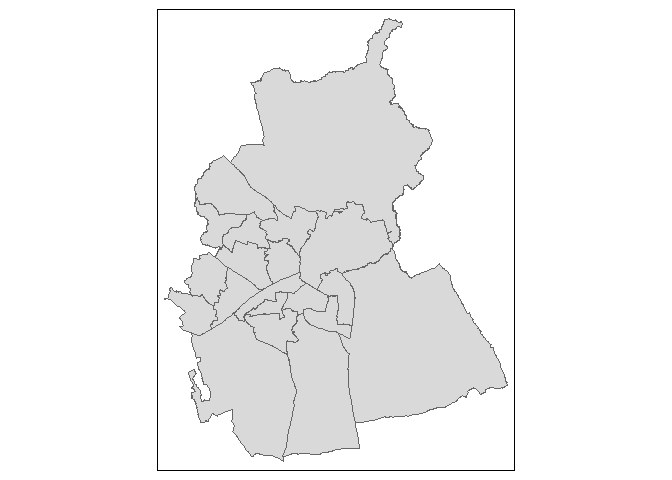
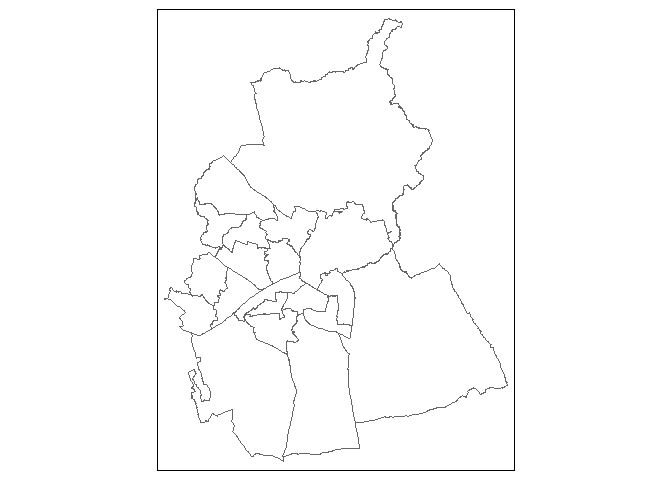
Fix URLs again and add LTLA:UTLA lookup capability

Changed region(s): [[0.25, 0.0312, 0.75, 0.9688]]

diff --git a/README.md b/README.md
@@ -25,7 +25,6 @@ MSOA, Ward, LAD/LTLA, UTLA/CTY, CAUTH, RGN *\[subject to change\]*
 
 ``` r
 library(jogger)
-library(tmap)
 library(dplyr)
 #> 
 #> Attaching package: 'dplyr'
@@ -35,19 +34,21 @@ library(dplyr)
 #> The following objects are masked from 'package:base':
 #> 
 #>     intersect, setdiff, setequal, union
+library(tmap)
 
 tmap::tmap_mode("plot")
 #> tmap mode set to plotting
 
 geo_get("wd", "Swindon", "lad") %>% 
-  tmap::qtm()
-#> Reading layer `ESRIJSON' from data source `https://services1.arcgis.com/ESMARspQHYMw9BZ9/arcgis/rest/services/Wards_December_2020_UK_BFC/FeatureServer/0/query?where=%20(WD20CD%20%3D%20'E05008962'%20OR%20WD20CD%20%3D%20'E05008963'%20OR%20WD20CD%20%3D%20'E05010757'%20OR%20WD20CD%20%3D%20'E05008965'%20OR%20WD20CD%20%3D%20'E05008966'%20OR%20WD20CD%20%3D%20'E05010755'%20OR%20WD20CD%20%3D%20'E05008967'%20OR%20WD20CD%20%3D%20'E05008954'%20OR%20WD20CD%20%3D%20'E05008968'%20OR%20WD20CD%20%3D%20'E05008955'%20OR%20WD20CD%20%3D%20'E05008969'%20OR%20WD20CD%20%3D%20'E05008970'%20OR%20WD20CD%20%3D%20'E05008971'%20OR%20WD20CD%20%3D%20'E05008972'%20OR%20WD20CD%20%3D%20'E05008956'%20OR%20WD20CD%20%3D%20'E05008957'%20OR%20WD20CD%20%3D%20'E05008958'%20OR%20WD20CD%20%3D%20'E05010756'%20OR%20WD20CD%20%3D%20'E05008960'%20OR%20WD20CD%20%3D%20'E05008961')%20&outFields=WD20CD,WD20NM&outSR=4326&f=json' using driver `ESRIJSON'
-#> Simple feature collection with 20 features and 2 fields
+  tmap::tm_shape() +
+  tmap::tm_borders()
+#> Reading layer `ESRIJSON' from data source `https://services1.arcgis.com/ESMARspQHYMw9BZ9/arcgis/rest/services/Wards_December_2020_UK_BFC/FeatureServer/0/query?where=%20(WD20CD%20%3D%20'E05008962'%20OR%20WD20CD%20%3D%20'E05008963'%20OR%20WD20CD%20%3D%20'E05010757'%20OR%20WD20CD%20%3D%20'E05008965'%20OR%20WD20CD%20%3D%20'E05008966'%20OR%20WD20CD%20%3D%20'E05010755'%20OR%20WD20CD%20%3D%20'E05008967'%20OR%20WD20CD%20%3D%20'E05008954'%20OR%20WD20CD%20%3D%20'E05008968'%20OR%20WD20CD%20%3D%20'E05008955'%20OR%20WD20CD%20%3D%20'E05008969'%20OR%20WD20CD%20%3D%20'E05008970'%20OR%20WD20CD%20%3D%20'E05008971'%20OR%20WD20CD%20%3D%20'E05008972'%20OR%20WD20CD%20%3D%20'E05008956'%20OR%20WD20CD%20%3D%20'E05008957'%20OR%20WD20CD%20%3D%20'E05008958'%20OR%20WD20CD%20%3D%20'E05010756'%20OR%20WD20CD%20%3D%20'E05008960'%20OR%20WD20CD%20%3D%20'E05008961')%20&outFields=WD20CD&outSR=4326&f=json' using driver `ESRIJSON'
+#> Simple feature collection with 20 features and 1 field
 #> geometry type:  POLYGON
 #> dimension:      XY
 #> bbox:           xmin: -1.865128 ymin: 51.48245 xmax: -1.602812 ymax: 51.69271
 #> geographic CRS: WGS 84
-#> Joining, by = c("wd20cd", "wd20nm")
+#> Linking to GEOS 3.8.0, GDAL 3.0.4, PROJ 6.3.1
 ```
 
 <img src="man/figures/README-example-1-1.png" width="100%" />
@@ -70,59 +71,47 @@ geo_get("msoa", "Swansea", "lad", return_boundaries = FALSE) %>%
 #> Joining, by = c("lsoa11cd", "lsoa11nm")
 #> Joining, by = c("lsoa11cd", "lsoa11nm")
 #>     msoa11cd    msoa11nm    msoa11nmw                 msoa11hclnm
-#> 1  W02000185 Swansea 018 Abertawe 018 Llanmorlais & Three Crosses
-#> 2  W02000195 Swansea 028 Abertawe 028         Mayals & Bishopston
-#> 3  W02000178 Swansea 011 Abertawe 011                    Penderry
-#> 4  W02000198 Swansea 031 Abertawe 031            Mumbles & Newton
-#> 5  W02000198 Swansea 031 Abertawe 031            Mumbles & Newton
-#> 6  W02000187 Swansea 020 Abertawe 020      Dunvant & Upper Killay
-#> 7  W02000183 Swansea 016 Abertawe 016                     Landore
-#> 8  W02000179 Swansea 012 Abertawe 012                    Gowerton
-#> 9  W02000180 Swansea 013 Abertawe 013                   Ravenhill
-#> 10 W02000171 Swansea 004 Abertawe 004      Llangyfelach & Tircoed
-#>                   msoa11hclnmw    wd20cd       wd20nm   lad20cd lad20nm
-#> 1        Llanmorlais a'r Crwys W05000974    Penclawdd W06000011 Swansea
-#> 2  Mayals a Llandeilo Ferwallt W05000959   Bishopston W06000011 Swansea
-#> 3                      Penderi W05000975     Penderry W06000011 Swansea
-#> 4             Mwmbwls a Newton W05000538  Oystermouth W06000011 Swansea
-#> 5             Mwmbwls a Newton W05000537       Newton W06000011 Swansea
-#> 6        Dynfant a Chilâ Uchaf W05000965      Dunvant W06000011 Swansea
-#> 7                      Glandwr W05000969      Landore W06000011 Swansea
-#> 8                      Tregwyr W05000525     Gowerton W06000011 Swansea
-#> 9                    Ravenhill W05000963      Cockett W06000011 Swansea
-#> 10     Llangyfelach a Thircoed W05000970 Llangyfelach W06000011 Swansea
-#>    lad20nmw
-#> 1  Abertawe
-#> 2  Abertawe
-#> 3  Abertawe
-#> 4  Abertawe
-#> 5  Abertawe
-#> 6  Abertawe
-#> 7  Abertawe
-#> 8  Abertawe
-#> 9  Abertawe
-#> 10 Abertawe
+#> 1  W02000194 Swansea 027 Abertawe 027                      Sketty
+#> 2  W02000179 Swansea 012 Abertawe 012                    Gowerton
+#> 3  W02000171 Swansea 004 Abertawe 004      Llangyfelach & Tircoed
+#> 4  W02000186 Swansea 019 Abertawe 019                    Townhill
+#> 5  W02000174 Swansea 007 Abertawe 007                     Loughor
+#> 6  W02000184 Swansea 017 Abertawe 017                     Cockett
+#> 7  W02000176 Swansea 009 Abertawe 009                 Mynydd-bach
+#> 8  W02000189 Swansea 022 Abertawe 022                     Ty-coch
+#> 9  W02000185 Swansea 018 Abertawe 018 Llanmorlais & Three Crosses
+#> 10 W02000178 Swansea 011 Abertawe 011                    Penderry
+#>               msoa11hclnmw   lad20cd lad20nm lad20nmw
+#> 1                    Sgeti W06000011 Swansea Abertawe
+#> 2                  Tregwyr W06000011 Swansea Abertawe
+#> 3  Llangyfelach a Thircoed W06000011 Swansea Abertawe
+#> 4                 Townhill W06000011 Swansea Abertawe
+#> 5               Casllwchwr W06000011 Swansea Abertawe
+#> 6                  Y Cocyd W06000011 Swansea Abertawe
+#> 7              Mynydd-bach W06000011 Swansea Abertawe
+#> 8                  Ty-coch W06000011 Swansea Abertawe
+#> 9    Llanmorlais a'r Crwys W06000011 Swansea Abertawe
+#> 10                 Penderi W06000011 Swansea Abertawe
 ```
 
 ``` r
 geo_get("lsoa", "Zetland", "ward", shape_fields = TRUE) %>%
   dplyr::arrange(desc(shape_area))
-#> Reading layer `ESRIJSON' from data source `https://services1.arcgis.com/ESMARspQHYMw9BZ9/arcgis/rest/services/Lower_Layer_Super_Output_Areas_December_2011_Boundaries_EW_BFC_V2/FeatureServer/0/query?where=%20(LSOA11CD%20%3D%20'E01012184'%20OR%20LSOA11CD%20%3D%20'E01012185'%20OR%20LSOA11CD%20%3D%20'E01012186')%20&outFields=LSOA11CD,LSOA11NM,SHAPE__AREA,SHAPE__LENGTH&outSR=4326&f=json' using driver `ESRIJSON'
-#> Simple feature collection with 3 features and 4 fields
+#> Reading layer `ESRIJSON' from data source `https://services1.arcgis.com/ESMARspQHYMw9BZ9/arcgis/rest/services/Lower_Layer_Super_Output_Areas_December_2011_Boundaries_EW_BFC_V2/FeatureServer/0/query?where=%20(LSOA11CD%20%3D%20'E01012184'%20OR%20LSOA11CD%20%3D%20'E01012185'%20OR%20LSOA11CD%20%3D%20'E01012186')%20&outFields=LSOA11CD,SHAPE__AREA,SHAPE__LENGTH&outSR=4326&f=json' using driver `ESRIJSON'
+#> Simple feature collection with 3 features and 3 fields
 #> geometry type:  POLYGON
 #> dimension:      XY
 #> bbox:           xmin: -1.059949 ymin: 54.6023 xmax: -1.036318 ymax: 54.61806
 #> geographic CRS: WGS 84
-#> Joining, by = c("lsoa11cd", "lsoa11nm")
 #> Simple feature collection with 3 features and 6 fields
 #> geometry type:  POLYGON
 #> dimension:      XY
 #> bbox:           xmin: -1.059949 ymin: 54.6023 xmax: -1.036318 ymax: 54.61806
 #> geographic CRS: WGS 84
-#>    lsoa11cd                  lsoa11nm shape_area shape_length    wd20cd  wd20nm
-#> 1 E01012186 Redcar and Cleveland 004G   510045.3     5069.503 E05012460 Zetland
-#> 2 E01012184 Redcar and Cleveland 001D   265580.9     3023.669 E05012460 Zetland
-#> 3 E01012185 Redcar and Cleveland 004F   189456.1     2617.889 E05012460 Zetland
+#>    lsoa11cd shape_area shape_length                  lsoa11nm    wd20cd  wd20nm
+#> 1 E01012186   510045.3     5069.503 Redcar and Cleveland 004G E05012460 Zetland
+#> 2 E01012184   265580.9     3023.669 Redcar and Cleveland 001D E05012460 Zetland
+#> 3 E01012185   189456.1     2617.889 Redcar and Cleveland 004F E05012460 Zetland
 #>                         geometry
 #> 1 POLYGON ((-1.047691 54.6129...
 #> 2 POLYGON ((-1.053543 54.6166...
@@ -154,7 +143,7 @@ build_api_query(
   within_level = "cauth19nm",
   within = "Greater Manchester"
 )
-#> [1] "https://services1.arcgis.com/ESMARspQHYMw9BZ9/arcgis/rest/services/LAD19_CAUTH19_EN_LU/FeatureServer/0/query?where=%20(CAUTH19NM%20%3D%20%27GREATER%20MANCHESTER%27)%20&outFields=*&returnDistinctValues=true&outSR=4326&f=json"
+#> [1] "https://services1.arcgis.com/ESMARspQHYMw9BZ9/arcgis/rest/services/LAD20_CAUTH20_EN_LU/FeatureServer/0/query?where=%20(CAUTH19NM%20%3D%20'GREATER%20MANCHESTER')%20&outFields=*&outSR=4326&f=json"
 ```
 
 ## Contributing
